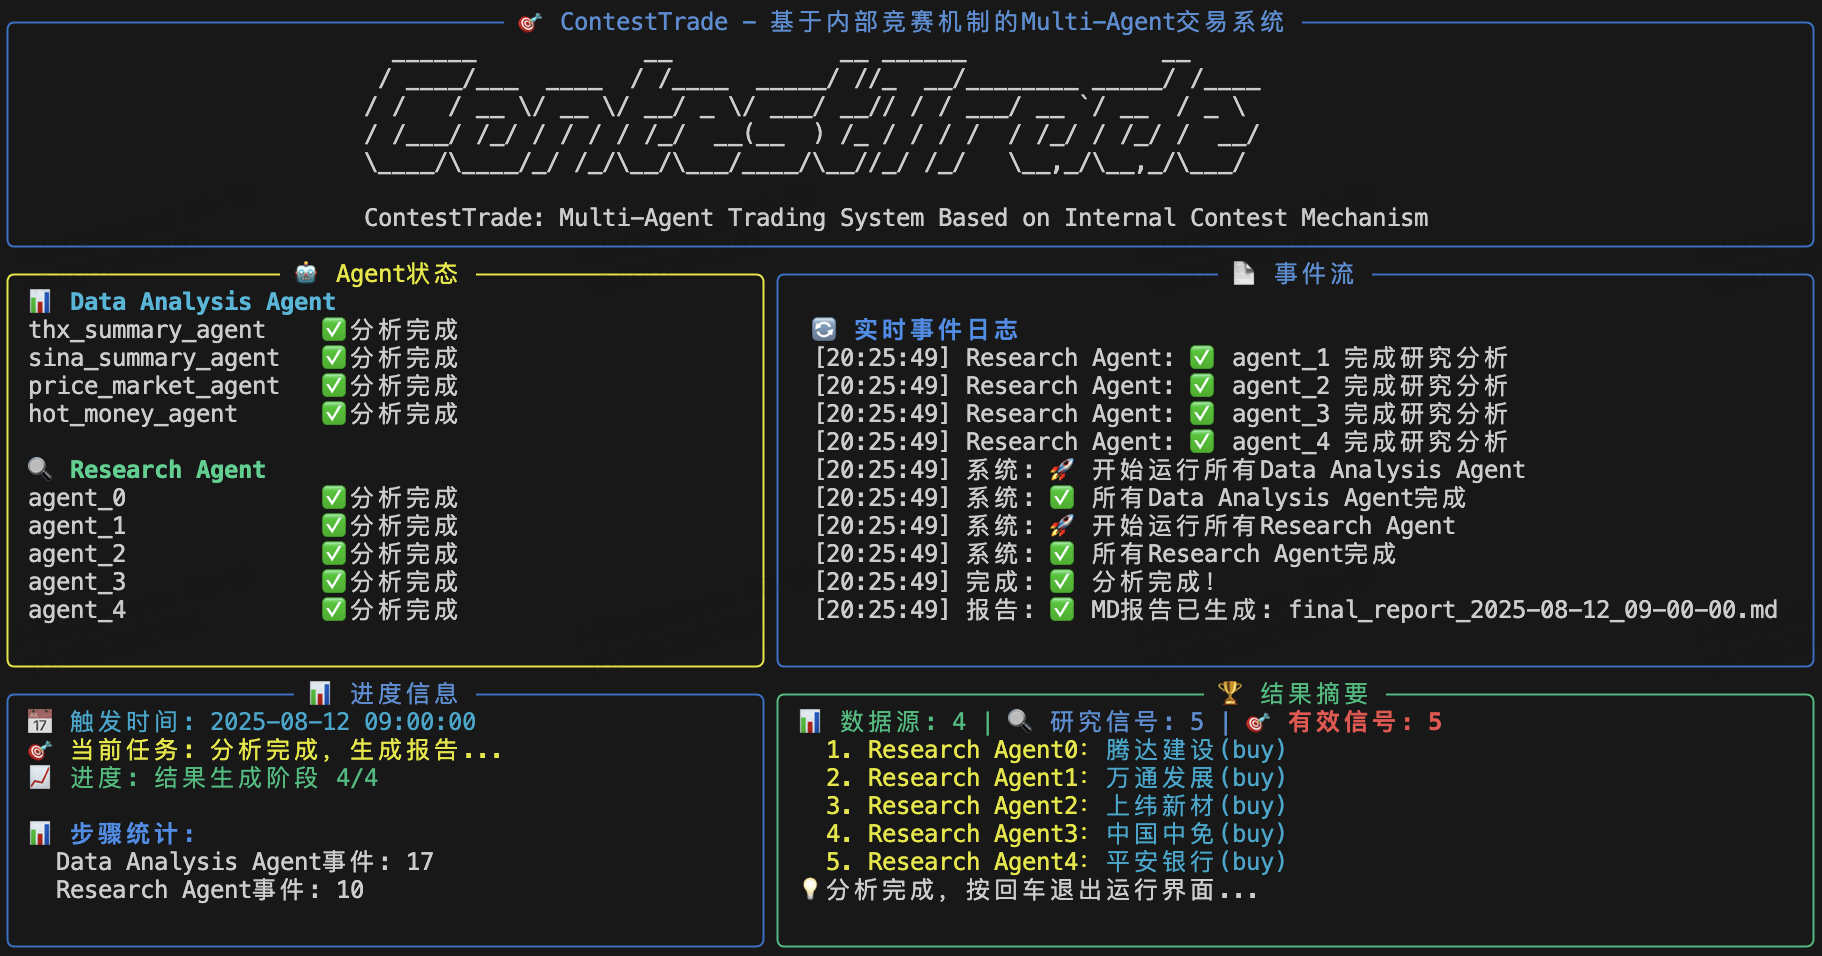
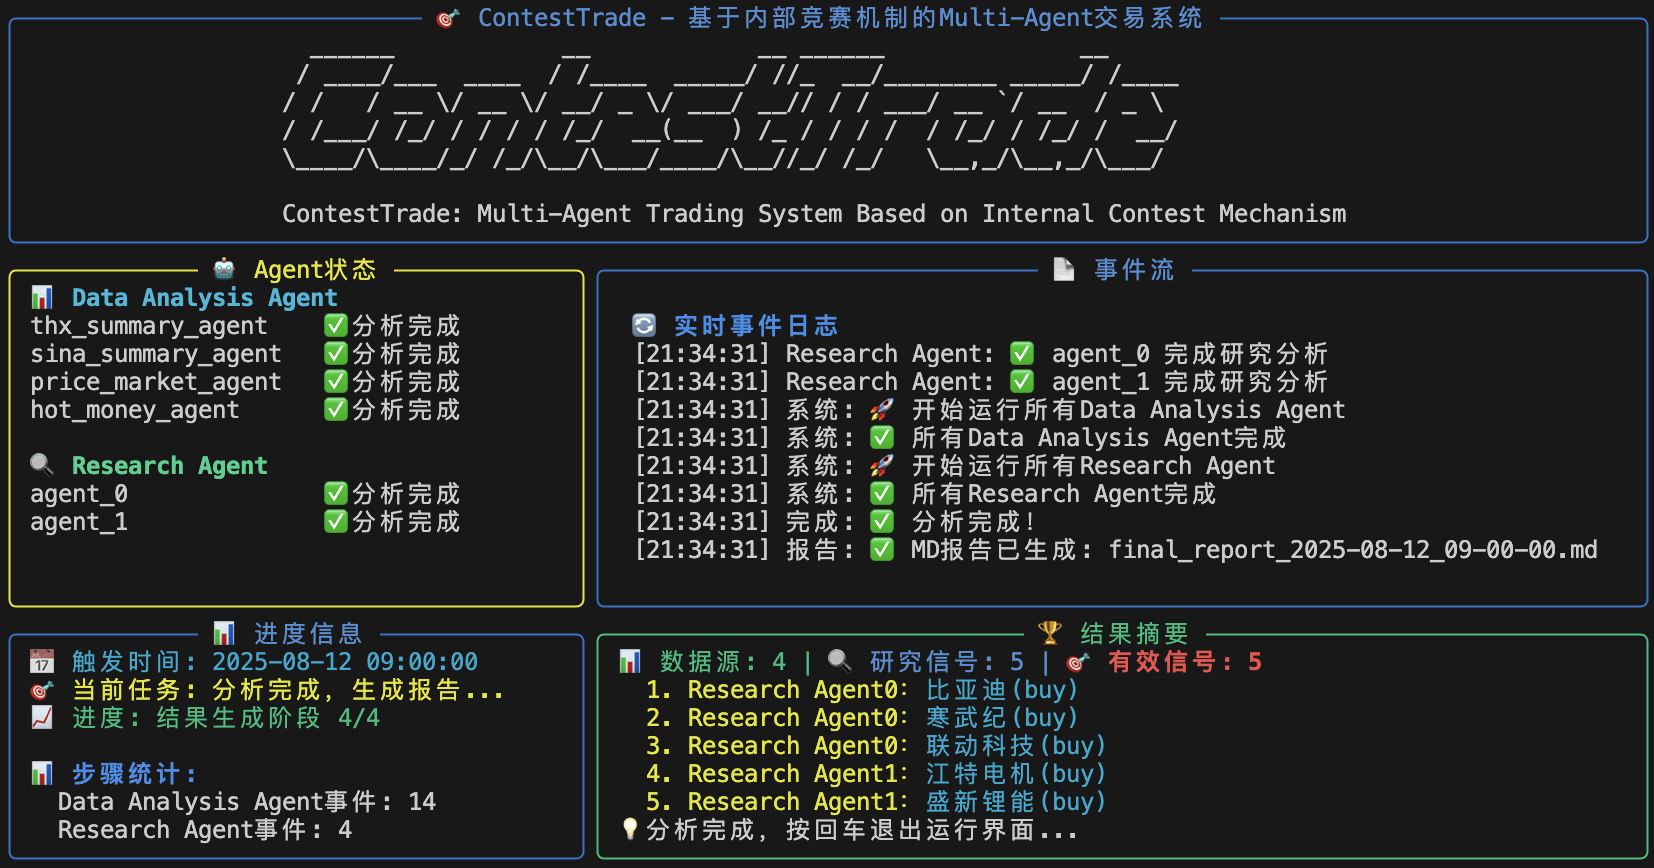
fix signal count(up_5) & add preference

Changed region(s): [[0.0, 0.0, 1.0, 0.9954]]

diff --git a/contest_trade/main.py b/contest_trade/main.py
@@ -1,8 +1,8 @@
 """
 Simplified Trade Company - 合并所有冗余代码，包装成LangGraph工作流
 """
+import re
 import json
-import textwrap
 import asyncio
 from typing import List, Dict, TypedDict
 from langgraph.graph import END, StateGraph
@@ -341,41 +341,20 @@ class SimpleTradeCompany:
             else:
                 signals = self._parse_multiple_results(agent_output.get("final_result_thinking", ""), agent_output.get("final_result", ""))
             
-            # 为每个信号添加agent信息，确保固定5个信号
+            # 为每个信号添加agent信息，最多取5个信号
             valid_signals = []
-            for i, signal in enumerate(signals[:5]):  # 取前5个
+            for i, signal in enumerate(signals[:5]):
                 if signal:
                     signal["agent_id"] = agent_id
                     signal["agent_name"] = agent.config.agent_name
                     signal["signal_index"] = i + 1
                     valid_signals.append(signal)
-            
-            # 如果信号不足5个，用空信号补足
-            while len(valid_signals) < 5:
-                empty_signal = {
-                    "agent_id": agent_id,
-                    "agent_name": agent.config.agent_name,
-                    "signal_index": len(valid_signals) + 1,
-                    "thinking": "No sufficient market opportunity found",
-                    "has_opportunity": "no",
-                    "action": "hold",
-                    "symbol_code": "N/A",
-                    "symbol_name": "N/A",
-                    "evidence_list": [],
-                    "limitations": ["Insufficient market data or no clear opportunity identified"],
-                    "probability": "0"
-                }
-                valid_signals.append(empty_signal)
-            
             signals = valid_signals
         
         return {"signals": signals, "events": agent_events} if signals else None
 
     def _parse_multiple_results(self, thinking_result: str, output_result: str):
         """解析多个信号结果"""
-        import re
-        from utils.market_manager import GLOBAL_MARKET_MANAGER
-        
         thinking = thinking_result.split("<Output>")[0].strip('\n').strip()
         output = output_result.split("<Output>")[-1].strip('\n').strip()
         
@@ -392,12 +371,6 @@ class SimpleTradeCompany:
                 except Exception as e:
                     print(f"Error parsing individual signal: {e}")
                     continue
-            
-            # 如果没有找到signal块，尝试用原来的方法解析（向后兼容）
-            if not signals:
-                single_signal = self._parse_result(thinking_result, output_result)
-                if single_signal:
-                    signals.append(single_signal)
         
         except Exception as e:
             print(f"Error parsing multiple results: {e}")
@@ -406,9 +379,6 @@ class SimpleTradeCompany:
 
     def _parse_single_signal_block(self, signal_block: str, thinking: str):
         """解析单个信号块"""
-        import re
-        from utils.market_manager import GLOBAL_MARKET_MANAGER
-        
         try:
             has_opportunity = re.search(r"<has_opportunity>(.*?)</has_opportunity>", signal_block, flags=re.DOTALL).group(1).strip()
             action = re.search(r"<action>(.*?)</action>", signal_block, flags=re.DOTALL).group(1).strip()
@@ -461,50 +431,6 @@ class SimpleTradeCompany:
         except Exception as e:
             print(f"Error parsing single signal block: {e}")
             return None
-
-    def _parse_result(self, thinking_result: str, output_result: str):
-        """解析结果"""
-        import re
-        from utils.market_manager import GLOBAL_MARKET_MANAGER
-        
-        thinking = thinking_result.split("<Output>")[0].strip('\n').strip()
-        output = output_result.split("<Output>")[-1].strip('\n').strip()
-        try:
-            has_opportunity = re.search(r"<has_opportunity>(.*?)</has_opportunity>", output, flags=re.DOTALL).group(1)
-            action = re.search(r"<action>(.*?)</action>", output, flags=re.DOTALL).group(1)
-            symbol_code = re.search(r"<symbol_code>(.*?)</symbol_code>", output, flags=re.DOTALL).group(1)
-            symbol_name = re.search(r"<symbol_name>(.*?)</symbol_name>", output, flags=re.DOTALL).group(1)
-            evidence_list_str = re.search(r"<evidence_list>(.*?)</evidence_list>", output, flags=re.DOTALL).group(1)
-            evidence_list = []
-            for item in evidence_list_str.split("<evidence>"):
-                if '</evidence>' not in item:
-                    continue
-                evidence_description = item.split("</evidence>")[0].strip()
-                evidence_time = re.search(r"<time>(.*?)</time>", item, flags=re.DOTALL).group(1)
-                evidence_from_source = re.search(r"<from_source>(.*?)</from_source>", item, flags=re.DOTALL).group(1)
-                evidence_list.append({
-                    "description": evidence_description,
-                    "time": evidence_time,
-                    "from_source": evidence_from_source,
-                })
-
-            limitations_str = re.search(r"<limitations>(.*?)</limitations>", output, flags=re.DOTALL).group(1)
-            limitations = re.findall(r"<limitation>(.*?)</limitation>", limitations_str, flags=re.DOTALL)
-            probability = re.search(r"<probability>(.*?)</probability>", output, flags=re.DOTALL).group(1)
-            symbol_name, symbol_code = GLOBAL_MARKET_MANAGER.fix_symbol_code("CN-Stock", symbol_name, symbol_code)
-        except Exception as e:
-            print(f"Error parsing result: {e}")
-            return None
-        return {
-            "thinking": thinking,
-            "has_opportunity": has_opportunity,
-            "action": action,   
-            "symbol_code": symbol_code,
-            "symbol_name": symbol_name,
-            "evidence_list": evidence_list,
-            "limitations": limitations,
-            "probability": probability,
-        }
 
     # LangGraph工作流创建
     def create_company_workflow(self):

diff --git a/contest_trade/agents/prompts.py b/contest_trade/agents/prompts.py
@@ -222,17 +222,18 @@ Please output {final_description} directly, do not include any other content.
 """
 
 prompt_for_research_invest_task = """
-As a professional researcher with specific belief, you need to find opportunities in the market today. You need to submit exactly 5 critical analysis suggestions to the investor.
+As a professional researcher with specific belief, you need to find opportunities in the market today. You need to submit up to 5 critical analysis suggestions to the investor.
 
-Your submission should include following parts for EACH of the 5 opportunities:
+Your submission should include following parts for EACH opportunity you identify:
 1. Does valuable opportunity exist in the market today?
 2. Symbol Information of the opportunity
 3. Evidence list you find to prove the opportunity is valuable. Judger will use these evidences to judge the opportunity is valuable or not.
 4. Based on the evidence_list, you need to give a probability to this opportunity.
 5. You need to give a limitation to your suggestion, such as risk, etc. No limitation will be rejected.
-6. You MUST provide exactly 5 opportunity suggestions.
+6. You should provide between 1 to 5 opportunity suggestions based on what you find in the market. Only submit signals for opportunities you genuinely identify.
 7. If accepted, your suggestions will execute when the market opens and hold for one day. So you need to focus on short-term information.
 8. Each signal should be independent and focus on different stocks or strategies.
+9. If you cannot find 5 valuable opportunities, submit fewer high-quality signals rather than padding with low-quality ones.
 """
 
 prompt_for_research_invest_output_format = """
@@ -254,73 +255,7 @@ prompt_for_research_invest_output_format = """
 </limitations>
 <probability>xxx</probability>  # 0-100
 </signal>
-<signal>
-<has_opportunity>xxx</has_opportunity>  # yes or no
-<action>xxx</action>  # buy or sell
-<symbol_code>xxx</symbol_code>     # such as 600519.SH or TSLA
-<symbol_name>xxx</symbol_name>  # such as 贵州茅台 or tesla
-<evidence_list>        # no more than 20 evidences
-<evidence>xxx</evidence>   # a detailed evidence description, including convincing logical inferences which support your suggestion. About 100 words.
-<time>xxx</time>           # evidence time
-<from_source>xxx</from_source>   # evidence source, from which media name or website name or tools name
-...
-</evidence_list>
-<limitations>
-<limitation>xxx</limitation>   # limitations of your suggestion, such as risk, etc.
-...
-</limitations>
-<probability>xxx</probability>  # 0-100
-</signal>
-<signal>
-<has_opportunity>xxx</has_opportunity>  # yes or no
-<action>xxx</action>  # buy or sell
-<symbol_code>xxx</symbol_code>     # such as 600519.SH or TSLA
-<symbol_name>xxx</symbol_name>  # such as 贵州茅台 or tesla
-<evidence_list>        # no more than 20 evidences
-<evidence>xxx</evidence>   # a detailed evidence description, including convincing logical inferences which support your suggestion. About 100 words.
-<time>xxx</time>           # evidence time
-<from_source>xxx</from_source>   # evidence source, from which media name or website name or tools name
-...
-</evidence_list>
-<limitations>
-<limitation>xxx</limitation>   # limitations of your suggestion, such as risk, etc.
-...
-</limitations>
-<probability>xxx</probability>  # 0-100
-</signal>
-<signal>
-<has_opportunity>xxx</has_opportunity>  # yes or no
-<action>xxx</action>  # buy or sell
-<symbol_code>xxx</symbol_code>     # such as 600519.SH or TSLA
-<symbol_name>xxx</symbol_name>  # such as 贵州茅台 or tesla
-<evidence_list>        # no more than 20 evidences
-<evidence>xxx</evidence>   # a detailed evidence description, including convincing logical inferences which support your suggestion. About 100 words.
-<time>xxx</time>           # evidence time
-<from_source>xxx</from_source>   # evidence source, from which media name or website name or tools name
-...
-</evidence_list>
-<limitations>
-<limitation>xxx</limitation>   # limitations of your suggestion, such as risk, etc.
-...
-</limitations>
-<probability>xxx</probability>  # 0-100
-</signal>
-<signal>
-<has_opportunity>xxx</has_opportunity>  # yes or no
-<action>xxx</action>  # buy or sell
-<symbol_code>xxx</symbol_code>     # such as 600519.SH or TSLA
-<symbol_name>xxx</symbol_name>  # such as 贵州茅台 or tesla
-<evidence_list>        # no more than 20 evidences
-<evidence>xxx</evidence>   # a detailed evidence description, including convincing logical inferences which support your suggestion. About 100 words.
-<time>xxx</time>           # evidence time
-<from_source>xxx</from_source>   # evidence source, from which media name or website name or tools name
-...
-</evidence_list>
-<limitations>
-<limitation>xxx</limitation>   # limitations of your suggestion, such as risk, etc.
-...
-</limitations>
-<probability>xxx</probability>  # 0-100
-</signal>
+<!-- Repeat <signal>...</signal> block for each opportunity you identify, up to 5 signals -->
+<!-- Only include signals for genuine opportunities you find in the market -->
 </signals>
 """

diff --git a/cli/main.py b/cli/main.py
@@ -186,7 +186,7 @@ class ContestTradeDisplay:
         if console_size.width < 120:
             left_ratio, right_ratio = 2, 3  # 窄屏时调整比例
         else:
-            left_ratio, right_ratio = 3, 4  # 宽屏时的比例
+            left_ratio, right_ratio = 4, 7  # 宽屏时的比例
             
         layout["main_content"].split_row(
             Layout(name="left_panel", ratio=left_ratio),
@@ -289,7 +289,7 @@ class ContestTradeDisplay:
         content_text.append("🔄 实时事件日志\n", style="bold blue")
         
         if self.messages:
-            for msg in list(self.messages)[-10:]:  # 显示最后10条消息
+            for msg in list(self.messages)[-8:]:
                 content_text.append(f"{msg}\n")
         else:
             content_text.append("  ⏳ 等待事件...\n")

diff --git a/README.md b/README.md
@@ -13,17 +13,17 @@
 ---
 # ContestTrade: A Multi-Agent Trading System Based on Internal Contest Mechanism
 
-**ContestTrade** 是一个创新的多智能体（Multi-Agent）交易框架，通过**ContestTrade** 您可以轻松的打造一支专属的AI交易团队。只需设定分析时刻，它能自主扫描全市场，从海量数据中挖掘潜在的投资机会，并通过内部优选机制，为您构建最值得信赖的投资组合。
-
+**ContestTrade** 是一个创新的多智能体（Multi-Agent）交易框架，通过**ContestTrade** 您可以轻松的打造一支专属的AI交易团队。只需设定分析时刻，它能在无人工干预的情况下自主扫描全市场，从海量数据中挖掘潜在事件驱动型的投资机会，并通过内部优选机制，为您构建最值得信赖的投资组合。
 
 > **注意:** 目前框架仅支持 **中国A股** 市场。
 
-##  Introduction (项目简介)
-该项目致力于构建一个鲁棒的、基于大型语言模型（LLM）的量化交易系统。为了解决LLM对市场噪音敏感的挑战，我们引入了一种独特的内部竞争机制：系统中的多个智能体被分为数据团队和研究团队。
+## Introduction (项目简介)
 
-数据团队负责处理海量市场数据，并将其提炼成高密度的文本因子组合。随后，研究团队的智能体们会利用一套强大的专业金融工具集（如股票筛选、财务数据分析、网页搜索等），对这些因子进行多路径的深度研究，并生成交易决策。
+该项目致力于构建一个鲁棒的、基于大型语言模型（LLM）的量化交易系统，能够全自动地在真实金融世界中挖掘潜在的事件驱动型投资机会。为了解决LLM对市场噪音敏感的挑战，我们引入了一种独特的内部竞争机制：系统中的多个智能体被分为数据团队和研究团队。
 
-在所有Agent分析结束后，系统会根据真实的市场反馈对所有智能体的表现进行实时评估和排名。最终，只有表现最佳的智能体所产生的决策才会被采纳。这种竞争和优胜劣汰的机制，使得系统能够自适应地调整资源分配，显著增强决策的稳健性和可靠性，从而实现更优异的交易结果。
+数据团队负责处理海量市场数据，并将其提炼成高信息密度的文本。随后，研究团队的智能体们会利用一套强大的专业金融工具集（如股票筛选、财务数据分析、网页搜索等），对这些市场信号进行多轮的深度研究，并生成最终的交易决策。
+
+在所有智能体分析结束后，系统会对所有智能体的真实市场表现进行实时评估和排名。最终，就像业绩优秀的基金经理能够管理更大规模的资金，只有实际市场表现优秀的智能体所产生的决策才会被采纳并给予对应其表现的资金量，而表现相对不佳的智能体甚至无法得到资金交易。这种竞争和优胜劣汰的机制，使得系统能够自适应地调整资源分配，显著增强决策的稳健性和可靠性，从而实现更优异的交易结果。
 
 ## Framework Overview (框架概览)
 
@@ -70,6 +70,18 @@ pip install -r requirements.txt
 | `VLM_API_KEY` | 用于视觉分析的VLM API密钥 | No |
 | `VLM_BASE_URL` | 用于视觉分析的VLM API地址 | No |
 
+## Preference (选股偏好)
+
+系统中的每个 Research Agent 都会基于一条或多条“交易信念（belief）”来执行研究任务。您可以在 `contest_trade/config/belief_list.json` 中以 JSON 数组的形式配置这些信念，每一项都是一个文本描述，说明该智能体关注的选股偏好、投资风格或研究视角，每条选股偏好会输出最多5个投资信号。
+
+示例（`contest_trade/config/belief_list.json`）:
+
+```json
+[
+  "基于提供的资讯内容综合考虑各公司的业务动态、行业趋势以及潜在的市场影响。为两个群体推荐接下来的交易日具有投资潜力的股票组合:群体1：风险偏好者（偏好波动率大、收益率高，中低市值的股票）;群体2：稳健投资者（偏好低波动率、稳定收益、高市值的股票）。",
+  "基于近期突发性事件、政策调整及企业公告等催化剂因素，结合市场情绪传导路径和资金博弈特征。为两类不同风格的投资者筛选事件驱动型机会：群体1：激进套利者（偏好重组预期、订单暴增、技术突破等强题材的小盘股）；群体2：防御套利者（偏好分红上调、大宗回购、特许经营权获取等确定性事件的蓝筹股）。需注意北向资金异动与龙虎榜机构席位动向形成的共振效应。"
+]
+```
 
 ## Usage (使用方法)
 

diff --git a/README_en.md b/README_en.md
@@ -17,13 +17,15 @@
 
 > **Note:** This framework currently only supports the **Chinese A-share** market.
 
-##  Introduction
 
-This project aims to build a robust quantitative trading system powered by Large Language Models (LLMs).
+## Introduction
 
-To address the challenge of LLMs' sensitivity to market noise, we've developed an innovative multi-agent system with an internal competition mechanism. The system features two teams—a Data Team that processes market data into high-density text factors, and a Research Team that uses powerful financial tools to conduct in-depth analysis.
+This project aims to build a robust, LLM-driven quantitative trading system that can autonomously discover event-driven investment opportunities in real financial markets.
 
-The core innovation is our self-adaptive competition mechanism, where agents in both teams are continuously ranked based on real-time market feedback. Only the decisions from the highest-performing "winners" are adopted. This approach significantly enhances the system's robustness and leads to superior trading performance.
+To mitigate LLMs' sensitivity to market noise, ContestTrade adopts a structured two-team multi-agent design and an internal contest mechanism. The Data Team ingests and processes large volumes of market data, distilling them into high-information textual factors. The Research Team then uses a powerful set of financial tools (such as stock screening, financial metrics analysis, and web search) to perform in-depth, multi-round research on those factors and produce trading proposals.
+
+After all agents finish their analyses, the system evaluates and ranks agents by their live market performance. Similar to how top-performing fund managers are allocated more capital, only proposals from high-performing agents are adopted and receive proportionally more trading allocation, while poorer-performing agents may receive little or no capital. This competitive, performance-driven allocation improves robustness and reduces the impact of noisy or low-quality model outputs.
+
 
 
 ## Framework Overview
@@ -70,6 +72,19 @@ Edit the `config.yaml` file and enter your API keys. The table below lists all r
 | `LLM_THINKING_BASE_URL`  | LLM API base URL for complex reasoning     | No       |
 | `VLM_API_KEY`            | VLM API key for visual analysis            | No       |
 | `VLM_BASE_URL`           | VLM API base URL for visual analysis       | No       |
+
+## Preference
+
+Each Research Agent in the system acts based on one or more "trading beliefs". You can configure these beliefs as a JSON array in `contest_trade/config/belief_list.json`. Each entry should be a text description that defines the agent's stock-picking preference, investment style, or research perspective. Each belief will produce up to 5 candidate signals when executed.
+
+Example (`contest_trade/config/belief_list.json`):
+
+```json
+[
+  "Based on company business developments, industry trends, and potential market impact, recommend stock portfolios with short-term investment potential for two investor groups: Group 1 - risk-seekers (prefer high-volatility, mid/low market cap stocks); Group 2 - conservative investors (prefer low-volatility, stable-return, large-cap blue-chips).",
+  "Identify short-term event-driven trading opportunities based on sudden events, policy changes, and company announcements, combined with capital flow patterns and institutional seat movements."
+]
+```
 
 ## Usage
 
